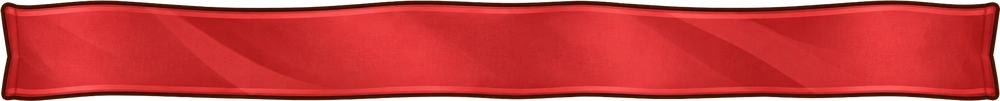
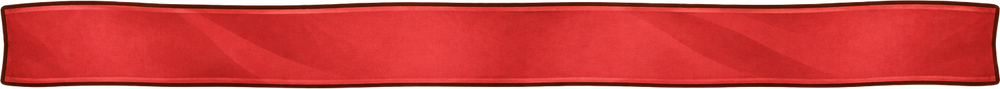
All six ribbons are pullable from their spools on the tray
Claude-Session: https://claude.ai/code/session_01KbwSo6yL3mitC5MkkWGPtA

diff --git a/src/screens/BouquetScreen.js b/src/screens/BouquetScreen.js
@@ -44,12 +44,13 @@ function SheetLayers({ paper, w, h, shadow = false }) {
   }
   return <Image source={paper === 'fancy' ? MAKE_IMAGES.paperFancy : MAKE_IMAGES.paper} style={[{ width: w, height: h }, shadow && SOFT]} resizeMode="stretch" />;
 }
-// The spools on the ribbon tray you can pull from (base units; the others have no ribbon art yet)
+// The six spools on the ribbon tray (base units); each pulls its own ribbon. The twine isn't one.
 const SPOOLS = [
-  { x: 1136, y: 152, key: 'ribbonRed' }, { x: 1192, y: 152, key: 'ribbonPink' }, { x: 1136, y: 272, key: 'ribbonPink' },
+  { x: 1136, y: 153, key: 'ribbonRed' }, { x: 1196, y: 153, key: 'ribbonPink' }, { x: 1250, y: 153, key: 'ribbonCream' },
+  { x: 1136, y: 274, key: 'ribbonPinkFloral' }, { x: 1200, y: 274, key: 'ribbonCreamFloral' }, { x: 1265, y: 274, key: 'ribbonGreen' },
 ];
 const PAPER_ASPECT = 700 / 617;
-const RIBBON_ASPECT = 10;                            // the ribbon pictures are 1000×100
+const RIBBON_ASPECT = 11.2;                          // the ribbon pictures are 1000×~89
 const MAT = { x0: 419, y0: 232, x1: 1066, y1: 705 };  // the wooden work mat
 const CX = (MAT.x0 + MAT.x1) / 2;                    // 742
 const CY = (MAT.y0 + MAT.y1) / 2 + 6;
@@ -193,7 +194,7 @@ export default function BouquetScreen({ navigation }) {
           {/* ── 3: pull a ribbon off a spool and let go over the middle of the paper ── */}
           {step === 3 && !tied && (
             <SpoolPull
-              spools={SPOOLS.map((sp) => ({ ...sp, x: fx(sp.x), y: fy(sp.y), r: fx(34) }))}
+              spools={SPOOLS.map((sp) => ({ ...sp, x: fx(sp.x), y: fy(sp.y), r: fx(30) }))}
               target={{ left: pLeft, top: pTop, w: pw, h: ph, waist: fy(FLAP_TOP + 70) }}
               onTie={(key, wasNeat) => onTied(wasNeat, key)} fy={fy}
             />
@@ -460,7 +461,7 @@ function SpoolPull({ spools, target, onTie, fy }) {
   const pans = useRef(spools.map(makePan)).current;
   const len = pull ? Math.hypot(pull.x - pull.sx, pull.y - pull.sy) : 0;
   const ang = pull ? Math.atan2(pull.y - pull.sy, pull.x - pull.sx) : 0;
-  const RH = 26;
+  const RH = 24;
   return (
     <>
       {spools.map((sp, i) => (

diff --git a/src/engine/assets.js b/src/engine/assets.js
@@ -164,6 +164,10 @@ export const MAKE_IMAGES = {
   paperFancy: require('../../assets/shop/paper_fancy.png'),
   ribbonRed: require('../../assets/shop/ribbon_red.png'),
   ribbonPink: require('../../assets/shop/ribbon_pink.png'),
+  ribbonCream: require('../../assets/shop/ribbon_cream.png'),
+  ribbonPinkFloral: require('../../assets/shop/ribbon_pinkfloral.png'),
+  ribbonGreen: require('../../assets/shop/ribbon_green.png'),
+  ribbonCreamFloral: require('../../assets/shop/ribbon_creamfloral.png'),
 };
 export const FOSTER_BG = require('../../assets/foster/center.png');
 
